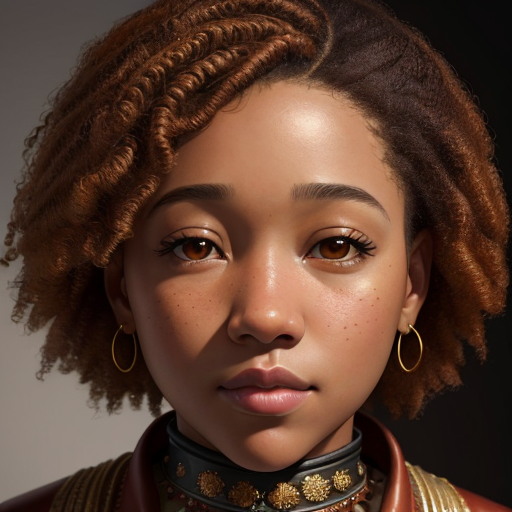
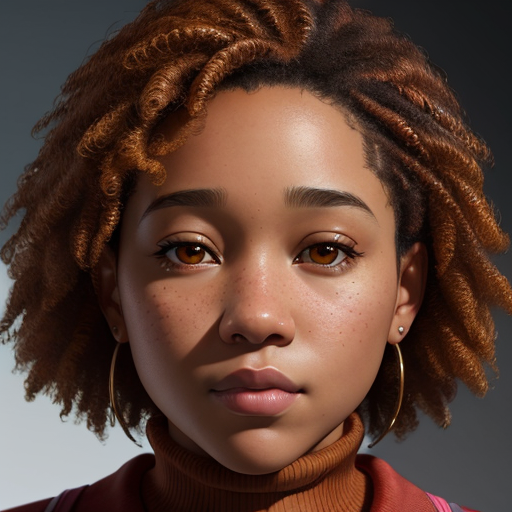
Update images to "modern" look.
Add ashani emotion images to subdir.
Make demo with random emotion changes.

diff --git a/src/Hero.vue b/src/Hero.vue
@@ -1,5 +1,50 @@
 <script setup>
 
+import { ref, onMounted, onUnmounted } from 'vue';
+
+const ashaniEmotion = ref('smile-1');
+
+function getAshaniEmotionImage() {
+    return `images/ashani/${ashaniEmotion.value}.png`;
+}
+
+function blink() {
+    // Constants and amount of delay are purely based on what "seems" good
+    const delay = 5000 + (Math.random() * 3000 - 1500);
+    setTimeout(() => {
+        // Check if we are in smile-1 state, if so blink, otherwise wait again
+        if (ashaniEmotion.value === 'smile-1') {
+            ashaniEmotion.value = 'smile-1-blink';
+            const delay = 150 + (Math.random() * 50 - 25);
+            setTimeout(() => {
+                ashaniEmotion.value = 'smile-1';
+                blink();
+            }, delay);
+        } else {
+            blink();
+        }
+    }, delay);
+}
+
+function randomEmotion() {
+    const delay = 3000 + (Math.random() * 3000);
+    setTimeout(() => {
+        const emotions = ['angry', 'disgust', 'embarrassed', 'frown-1', 'frown-2', 'frown-3', 'neutral', 'sleepy-1', 'smile-2', 'smile-3', 'smirk', 'surprised', 'surprised-2', 'thinking'];
+        const emotion = emotions[Math.floor(Math.random() * emotions.length)];
+        if (Math.random() < 0.5) {
+            ashaniEmotion.value = 'smile-1';
+        } else {
+            ashaniEmotion.value = emotion;
+        }
+        randomEmotion();
+    }, delay);
+}
+
+onMounted(() => {
+    blink();
+    randomEmotion();
+});
+
 </script>
 
 <style>
@@ -34,16 +79,16 @@ figure {
             <img src="images/julia.png" class="w-full" />
             <img src="images/emir.png" class="w-full" />
         </div>
-        <div class="flex flex-row">
+        <!-- <div class="flex flex-row">
             <img src="images/eunji.png" class="w-full" />
             <img src="images/jaden.png" class="w-full" />
             <img src="images/emily.png" class="w-full" />
             <img src="images/zara.png" class="w-full" />
-        </div>
+        </div> -->
 
         <div class="flex flex-row my-64">
             <figure class="pic">
-                <img src="images/julia.png" class="w-full rounded-full" /><figcaption>Julia is royalty from the <em>Outer Kingdom</em>.</figcaption>
+                <img :src="getAshaniEmotionImage()" class="w-64 rounded-full" /><figcaption>Ashani has emotions.</figcaption>
             </figure>
         </div>
     </div>
